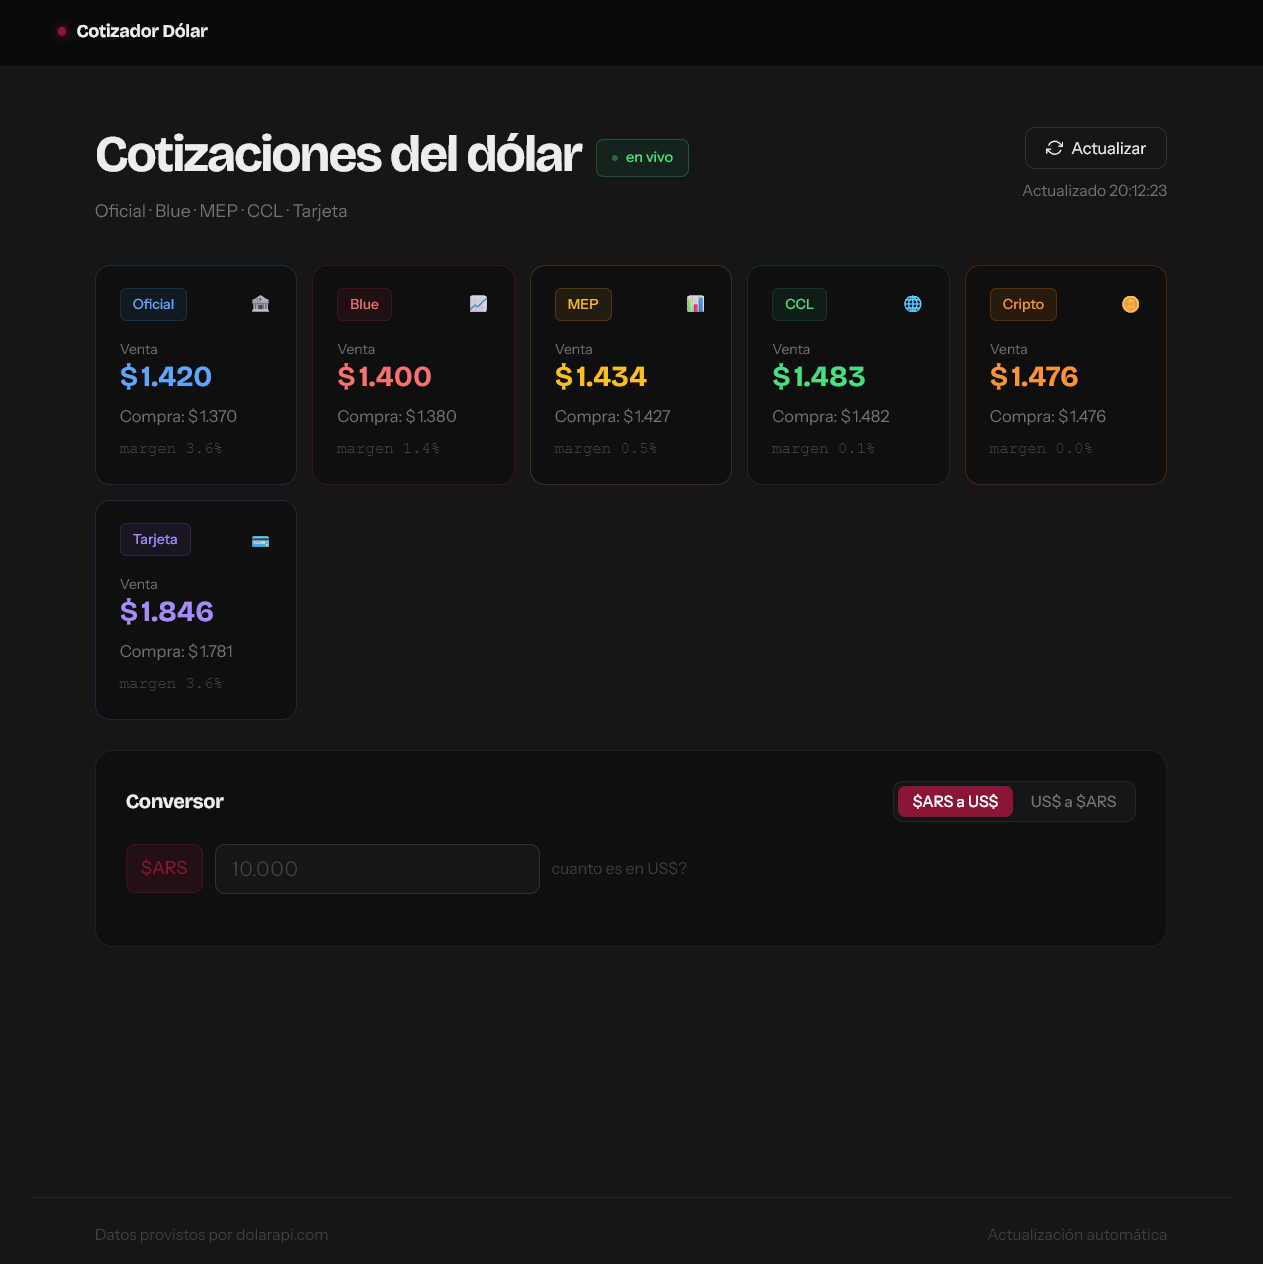
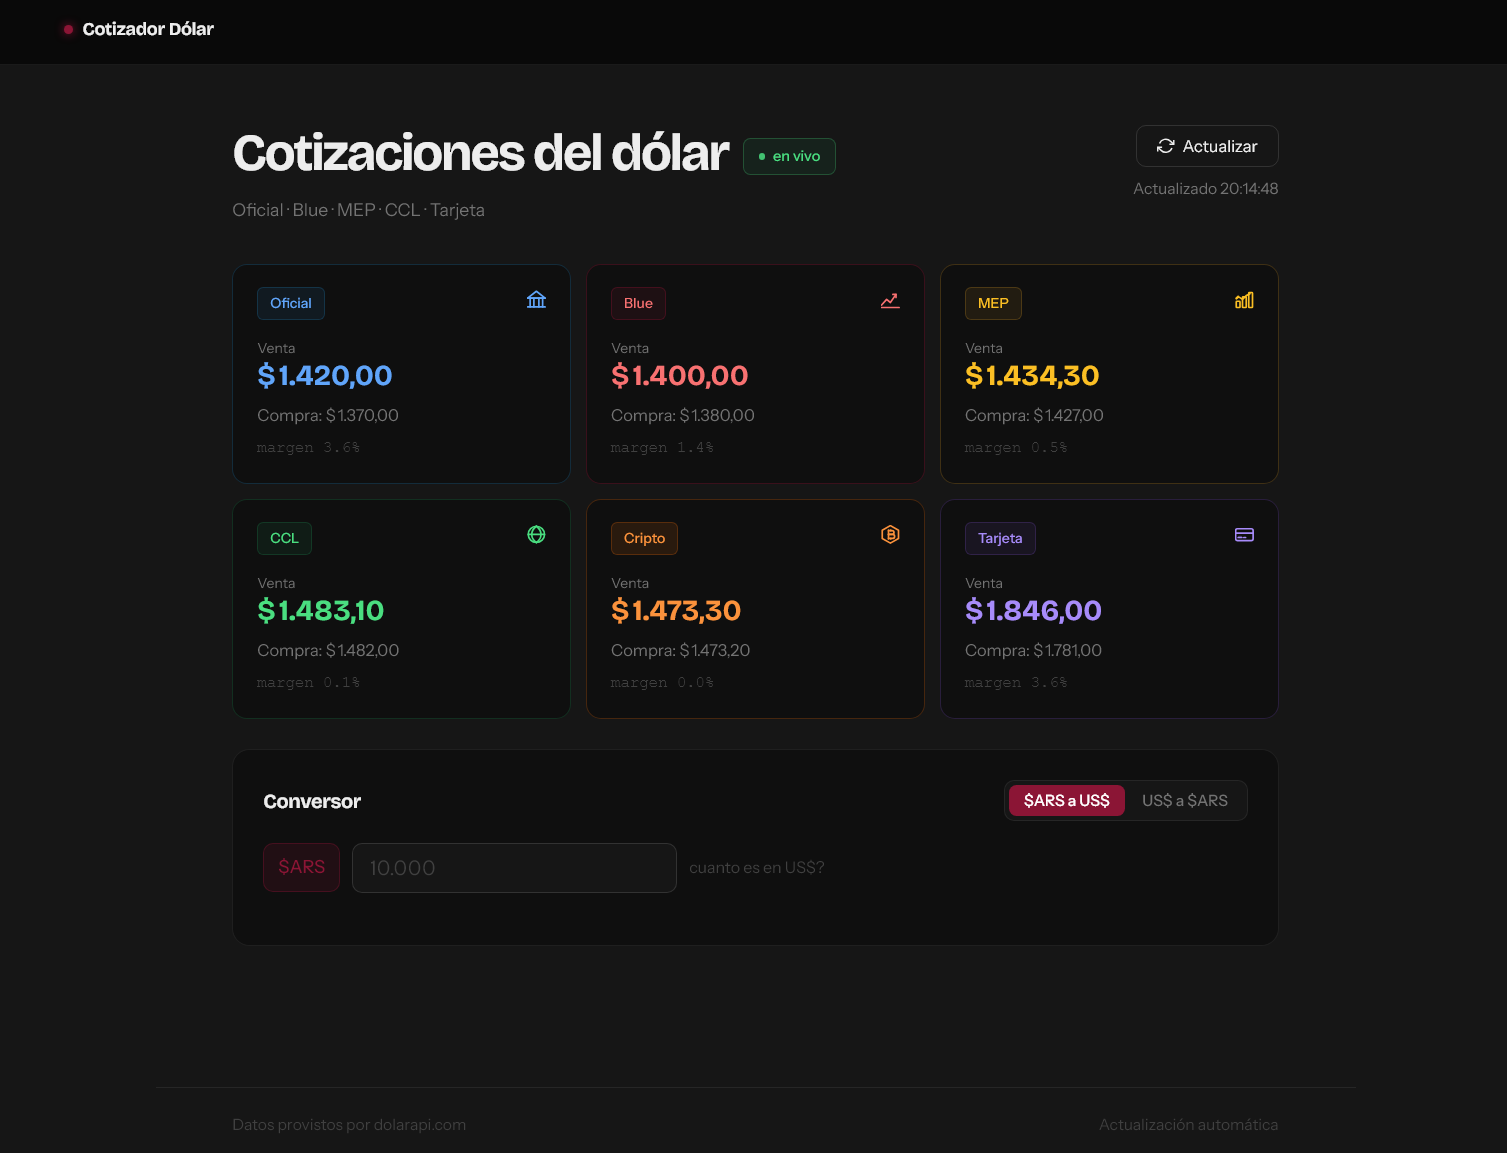
Icono Pestaña

diff --git a/index.html b/index.html
@@ -11,6 +11,7 @@
         href="https://fonts.googleapis.com/css2?family=Bricolage+Grotesque:opsz,wght@12..96,300;12..96,400;12..96,500;12..96,700&family=Instrument+Sans:ital,wght@0,400;0,500;1,400&display=swap"
         rel="stylesheet" />
     <link rel="stylesheet" href="recursos/css/index.css">
+    <link rel="icon" type="image/svg+xml" href="recursos/iconPeso.svg">
 </head>
 
 <body>